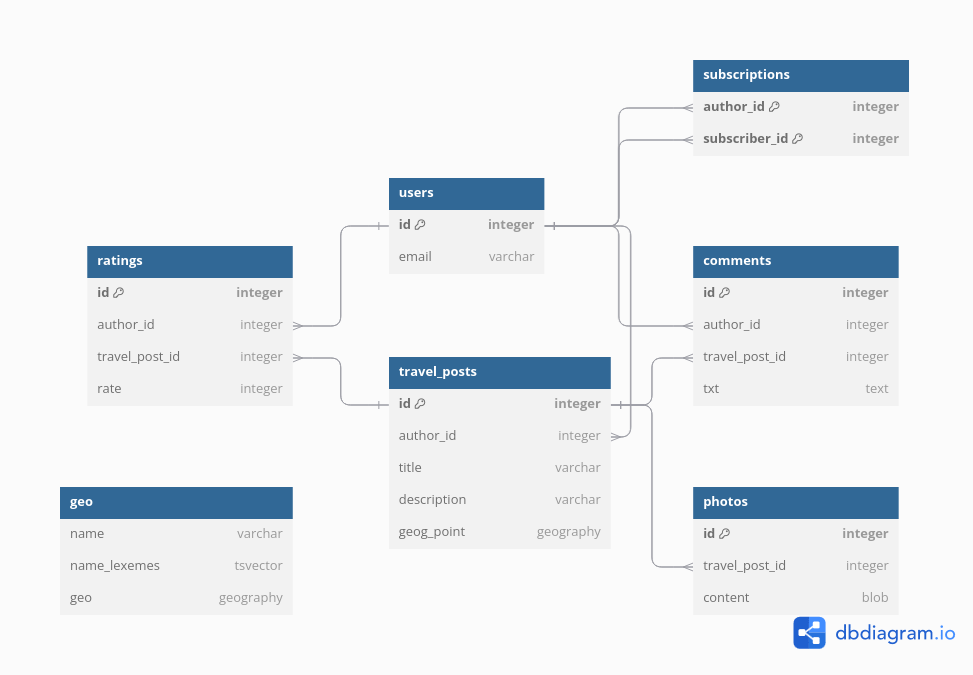
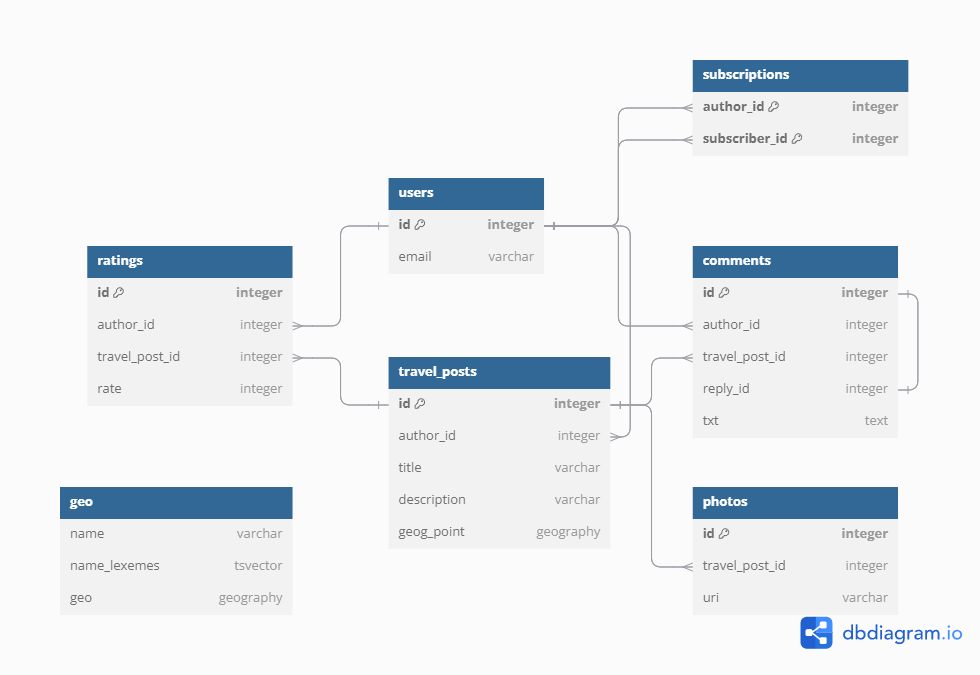
disk usage by subsystems, added reply_id to comments, photo in object storage

diff --git a/README.md b/README.md
@@ -79,13 +79,14 @@ RPS:
     RPS = 10_000_000 * 10 /  86400 ~= 1150 
 
     Read
-    RPS = 10_000_000 * 10 /  86400 ~= 1150 
+    Each user makes 30 reads by batch of 100 ratings
+    RPS = 10_000_000 * 30 / 86400 ~= 3500 
 
 Traffic:
 
-    Average rating size ~= 16 bytes
-    Write = 1150 * 16 = 18 KB/s
-    Read  = 3500 * 16 = 56 KB/s
+    Average rating size ~= 32 bytes
+    Write = 1150 * 32 = 34 KB/s
+    Read  = 3500 * 32 = 112 KB/s
 
 ### comments
 RPS:
@@ -100,7 +101,7 @@ RPS:
 Traffic:
 
     Average comment size ~= 120 bytes
-    Write = 1150 * 120 = 138 KB/s
+    Write = 3500 * 120 = 4 MB/s
     Read  = 3500 * 120 * 10 = 4 MB/s
 
 ### feeds
@@ -116,19 +117,71 @@ Traffic:
     Read  = 347 * 15MB ~= 5 GB/s
 
 ## Disks Usage (for 1 year)
-Estimation:
 
-    Total Disk Usage:
-    WriteTraffic = Posts(180 MB/s) + Ratings(18 KB/s) + Comments(140 KB/s) ~= 181 MB/s
-    ReadTraffic = Posts(5 GB/s) + Ratings(56 KB/s) + Comments(5 MB/s) + Feed(5 GB/s) ~= 10 GB/s
-    Traffic = WriteTraffic + ReadTraffic ~= 11 GB/s
-    IOPS = 3620 + 2300 + 7000 + 347 ~= 13500
+### posts disk usage
+
+    Posts Media:
+    Traffic = 180 MB/s + 5 GB/s ~= 5.2 GB/s
+    IOPS = 3620
 
     Disks Type = SSD(SATA) (Capacity ~= 100TB, IOPS ~= 1000, Throughput ~= 500 MB/s)
-    Capacity per year = 86400 * 365 * 181 = 5.1 PB
+    Capacity per year = 86400 * 365 * 180 MB = 5.1 PB
     Disks_for_capacity = 5.1 PB / 100 TB = 51 DISKS
-    Disks_for_throughput = 11 GB/s / 500 MB/s = 22 DISKS
-    Disks_for_iops = 13500 / 1000 = 14 DISKS
+    Disks_for_throughput = 5 GB/s / 500 MB/s = 10 DISKS
+    Disks_for_iops = 3620 / 1000 = 4 DISKS
 
-    Disks = max(51, 22, 14) = 51 DISKS
+    Disks = max(51, 10, 4) = 51 DISKS
+
+    Posts Metadata:
+    Traffic = 60 KB/s + 60 KB/s = 120 KB/s
+    IOPS = 3620
+
+    Disks Type = SSD(SATA) (Capacity ~= 100TB, IOPS ~= 1000, Throughput ~= 500 MB/s)
+    Capacity per year = 86400 * 365 * 120 KB = 3.7 TB
+    Disks_for_capacity = 5.1 TB / 100 TB = 1 DISKS
+    Disks_for_throughput = 120 KB/s / 500 MB/s = 1 DISKS
+    Disks_for_iops = 3620 / 1000 = 4 DISKS
+
+    Disks = max(1, 1, 4) = 4 DISKS
+
+### comments disk usage
+
+    Traffic = 4 MB/s + 4 MB/s ~= 8 MB/s
+    IOPS = 7000
+
+    Disks Type = SSD(SATA) (Capacity ~= 100TB, IOPS ~= 1000, Throughput ~= 500 MB/s)
+    Capacity per year = 86400 * 365 * 4 MB = 126 TB
+    Disks_for_capacity = 126 TB / 100 TB = 2 DISKS
+    Disks_for_throughput = 4 MB/s / 500 MB/s = 1 DISKS
+    Disks_for_iops = 7000 / 1000 = 7 DISKS
+
+    Disks = max(2, 1, 7) = 7 DISKS
+
+### ratings disk usage
+
+    Traffic = 34 KB/s + 112 KB/s ~= 150 KB/s
+    IOPS = 4650
+
+    Disks Type = SSD(SATA) (Capacity ~= 100TB, IOPS ~= 1000, Throughput ~= 500 MB/s)
+    Capacity per year = 86400 * 365 * 34 KB  = 1.1 TB
+    Disks_for_capacity = 1.1 TB / 100 TB = 1 DISKS
+    Disks_for_throughput = 34 KB/s / 500 MB/s = 1 DISKS
+    Disks_for_iops = 4650 / 1000 = 5 DISKS
+
+    Disks = max(1, 1, 5) = 5 DISKS
+
+### total disk usage
+
+    WriteTraffic = Posts(180 MB/s) + Ratings(34 KB/s) + Comments(4 MB/s) ~= 185 MB/s
+    ReadTraffic = Posts(5 GB/s) + Ratings(112 KB/s) + Comments(4 MB/s) + Feed(5 GB/s) ~= 10 GB/s
+    Traffic = WriteTraffic + ReadTraffic ~= 11 GB/s
+    IOPS = 3620 + 4650 + 7000 + 347 = 15617
+
+    Disks Type = SSD(SATA) (Capacity ~= 100TB, IOPS ~= 1000, Throughput ~= 500 MB/s)
+    Capacity per year = 86400 * 365 * 185 = 5.8 PB
+    Disks_for_capacity = 5.8 PB / 100 TB = 58 DISKS
+    Disks_for_throughput = 11 GB/s / 500 MB/s = 22 DISKS
+    Disks_for_iops = 15617 / 1000 = 16 DISKS
+
+    Disks = max(58, 22, 16) = 58 DISKS
 
